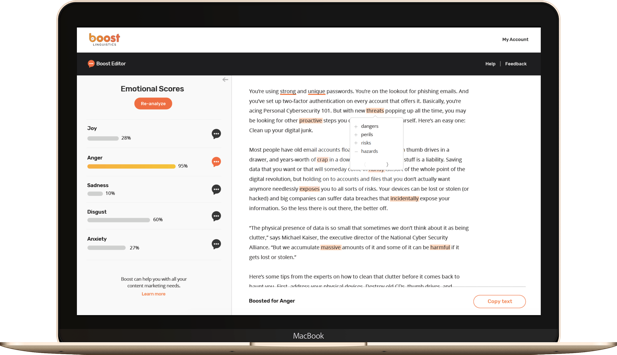
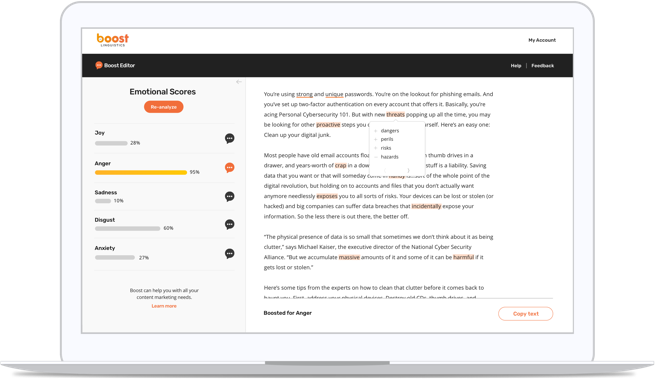
Updated images

diff --git a/index.html b/index.html
@@ -289,7 +289,7 @@
 
             h4{
 
-                font-size: 20px;
+                font-size: 18px;
 
             }
 
@@ -490,6 +490,13 @@
 
             }
 
+            .editor-logo{
+
+                width: 200px;
+                height: 40px;
+
+            }
+
 
         </style>
   
@@ -556,15 +563,10 @@
             
             <td class="understand-boost-columns">
 
-              <img class = "logo-and-boost" id="editor-icon" src="editor-icon.svg">
-              <h4 class = "logo-and-boost">Boost Editor</h4>
+              <img class = "logo-and-boost editor-logo" id="editor-icon" src="editor-icon.png">
               <h2 class="orange-font add-spacing">The artificial intelligence your content can't live without</h2>
               <p style="font-family: Open Sans;">Calling all content marketers, this one's for you. Boost Editor - a text editor that easily integrates with your content creation by helping you optimize your language to drive audience engagement.</p>
               <h4 class="orange-font"><a onclick="changeVideo('6jh4iFik7ZI')">Watch the video</a></h4>
-
-              
-
-
 
                 <!-- Modal -->
                 <div class="modal fade" id="myModal" tabindex="-1" role="dialog" aria-labelledby="myModalLabel">
